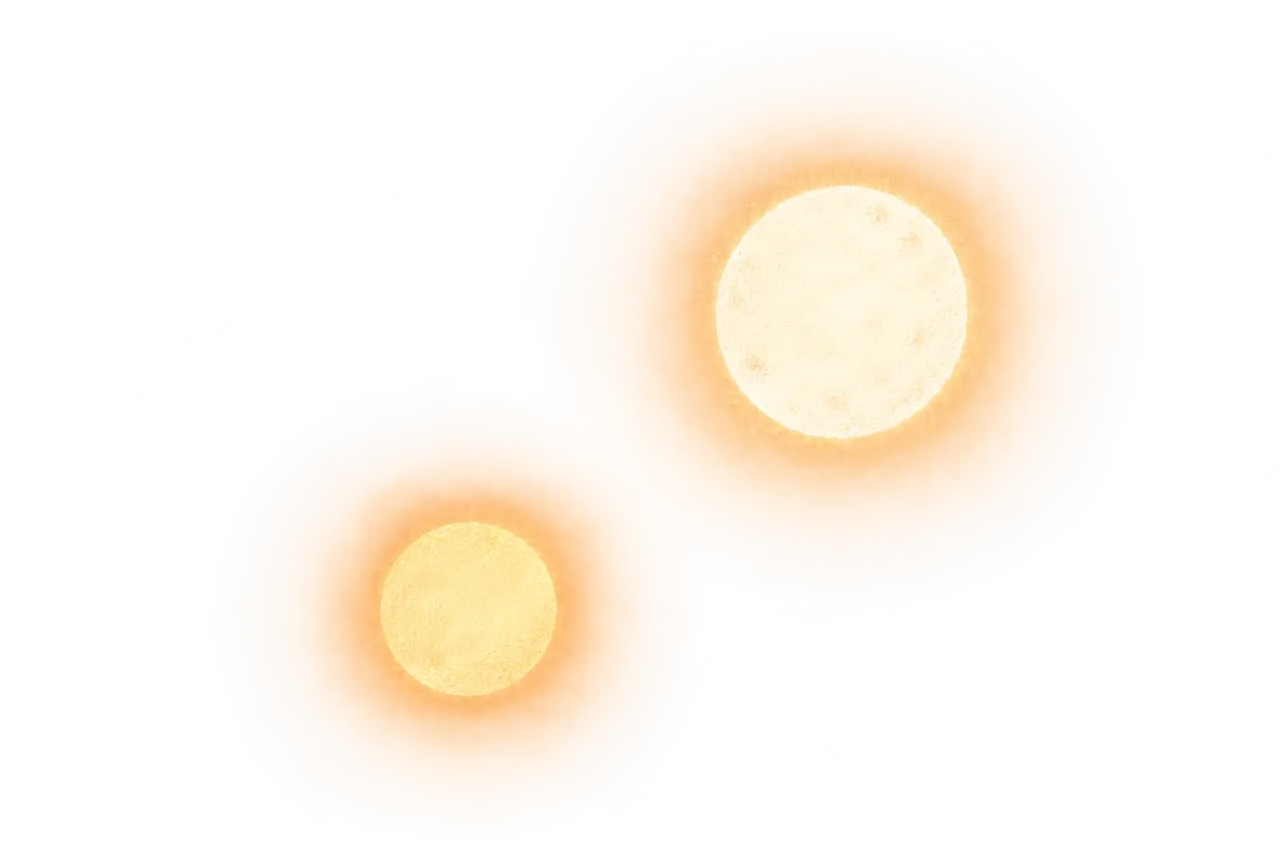
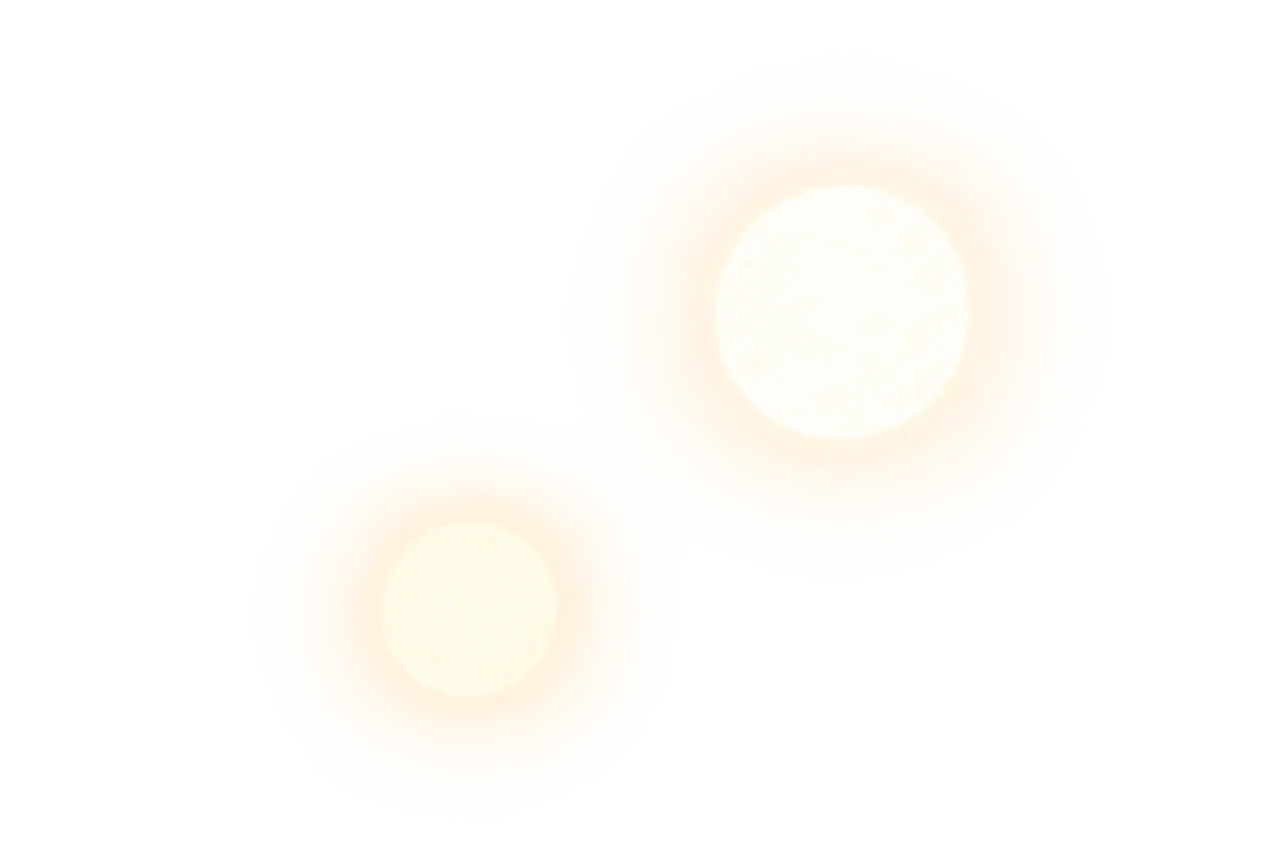
Bake the twin suns' screen blend into the plate
The suns loop forever over Act I, so the blend pass ran every frame. The plate now carries the screened colour against the sky in its alpha and composites normally.

Changed region(s): [[0.5, 0.1219, 0.8125, 0.6096], [0.2188, 0.5182, 0.5, 0.9144]]

diff --git a/style.css b/style.css
@@ -130,7 +130,7 @@ main { position: relative; }
 .l-sky { inset: 0; }
 .l-sky > img { object-fit: cover; }
 
-.l-suns { width: 40%; right: 3%; top: -4%; aspect-ratio: 1536 / 1024; mix-blend-mode: screen; } /* x22–85 y9–94 */
+.l-suns { width: 40%; right: 3%; top: -4%; aspect-ratio: 1536 / 1024; } /* x22–85 y9–94 */
 
 .l-ridges { width: 100%; left: 0; bottom: calc(100% - var(--horizon)); aspect-ratio: 1672 / 941; }
 .l-ridges > img { transform: translateY(38%); } /* x0–100 y48–62 */
